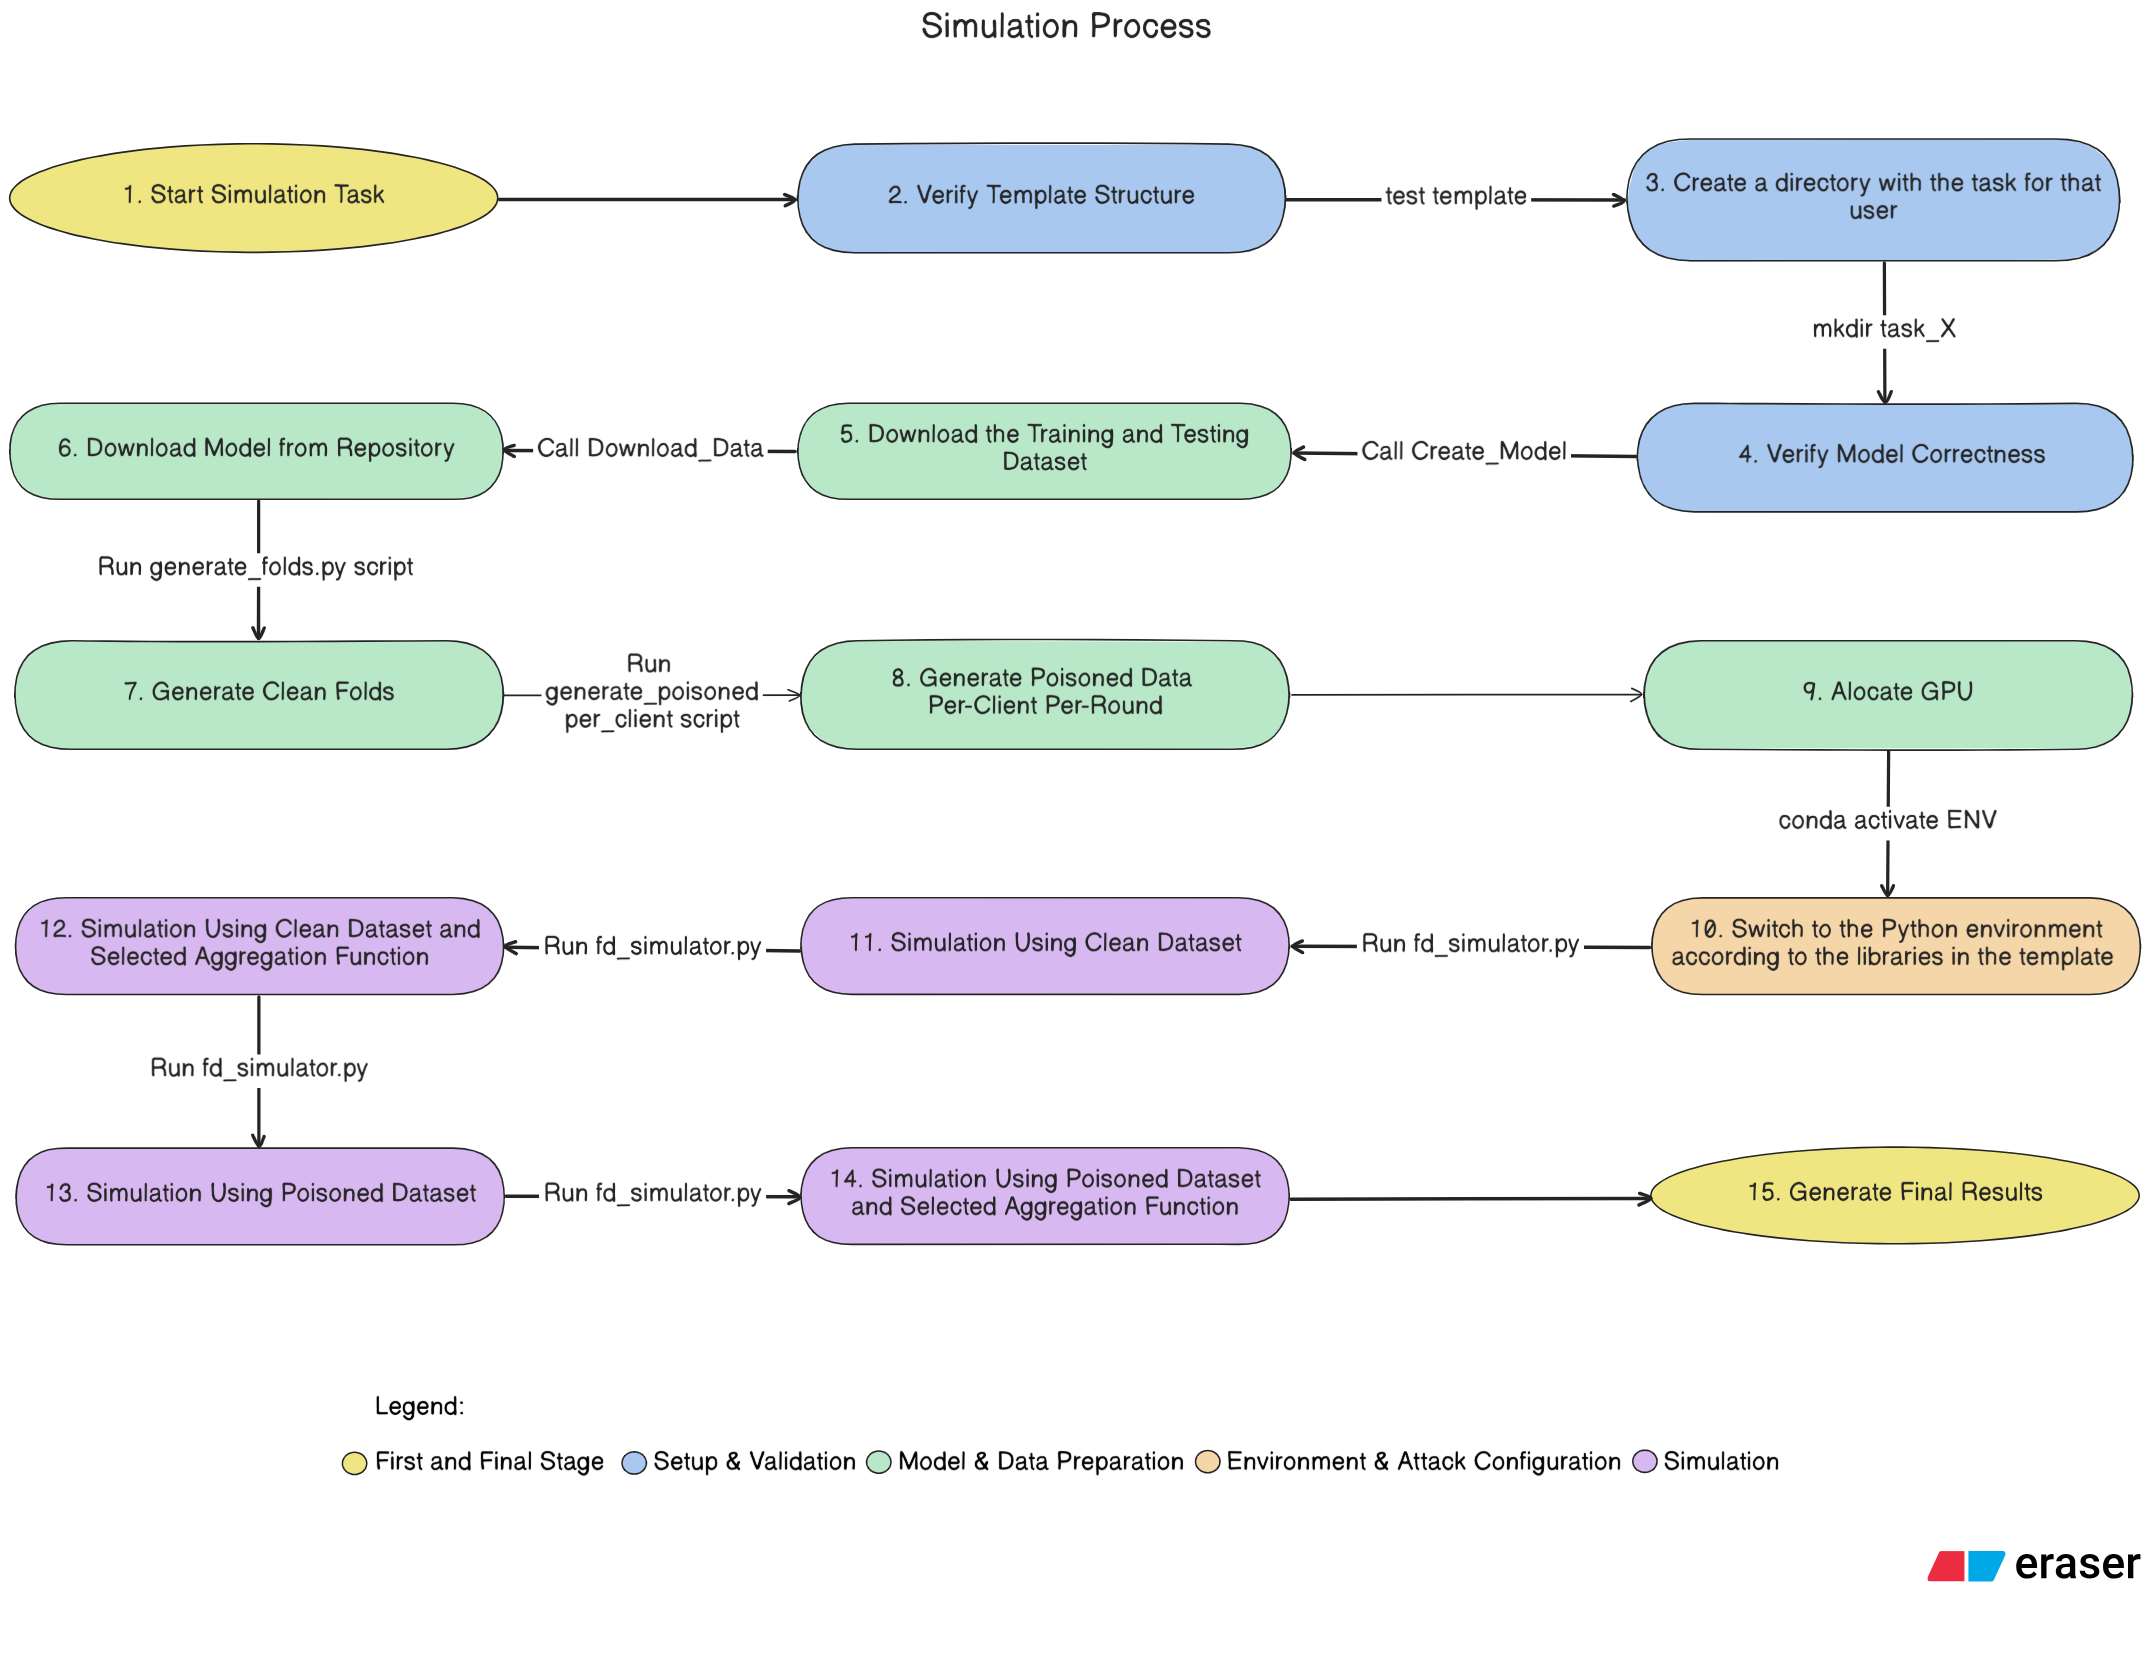
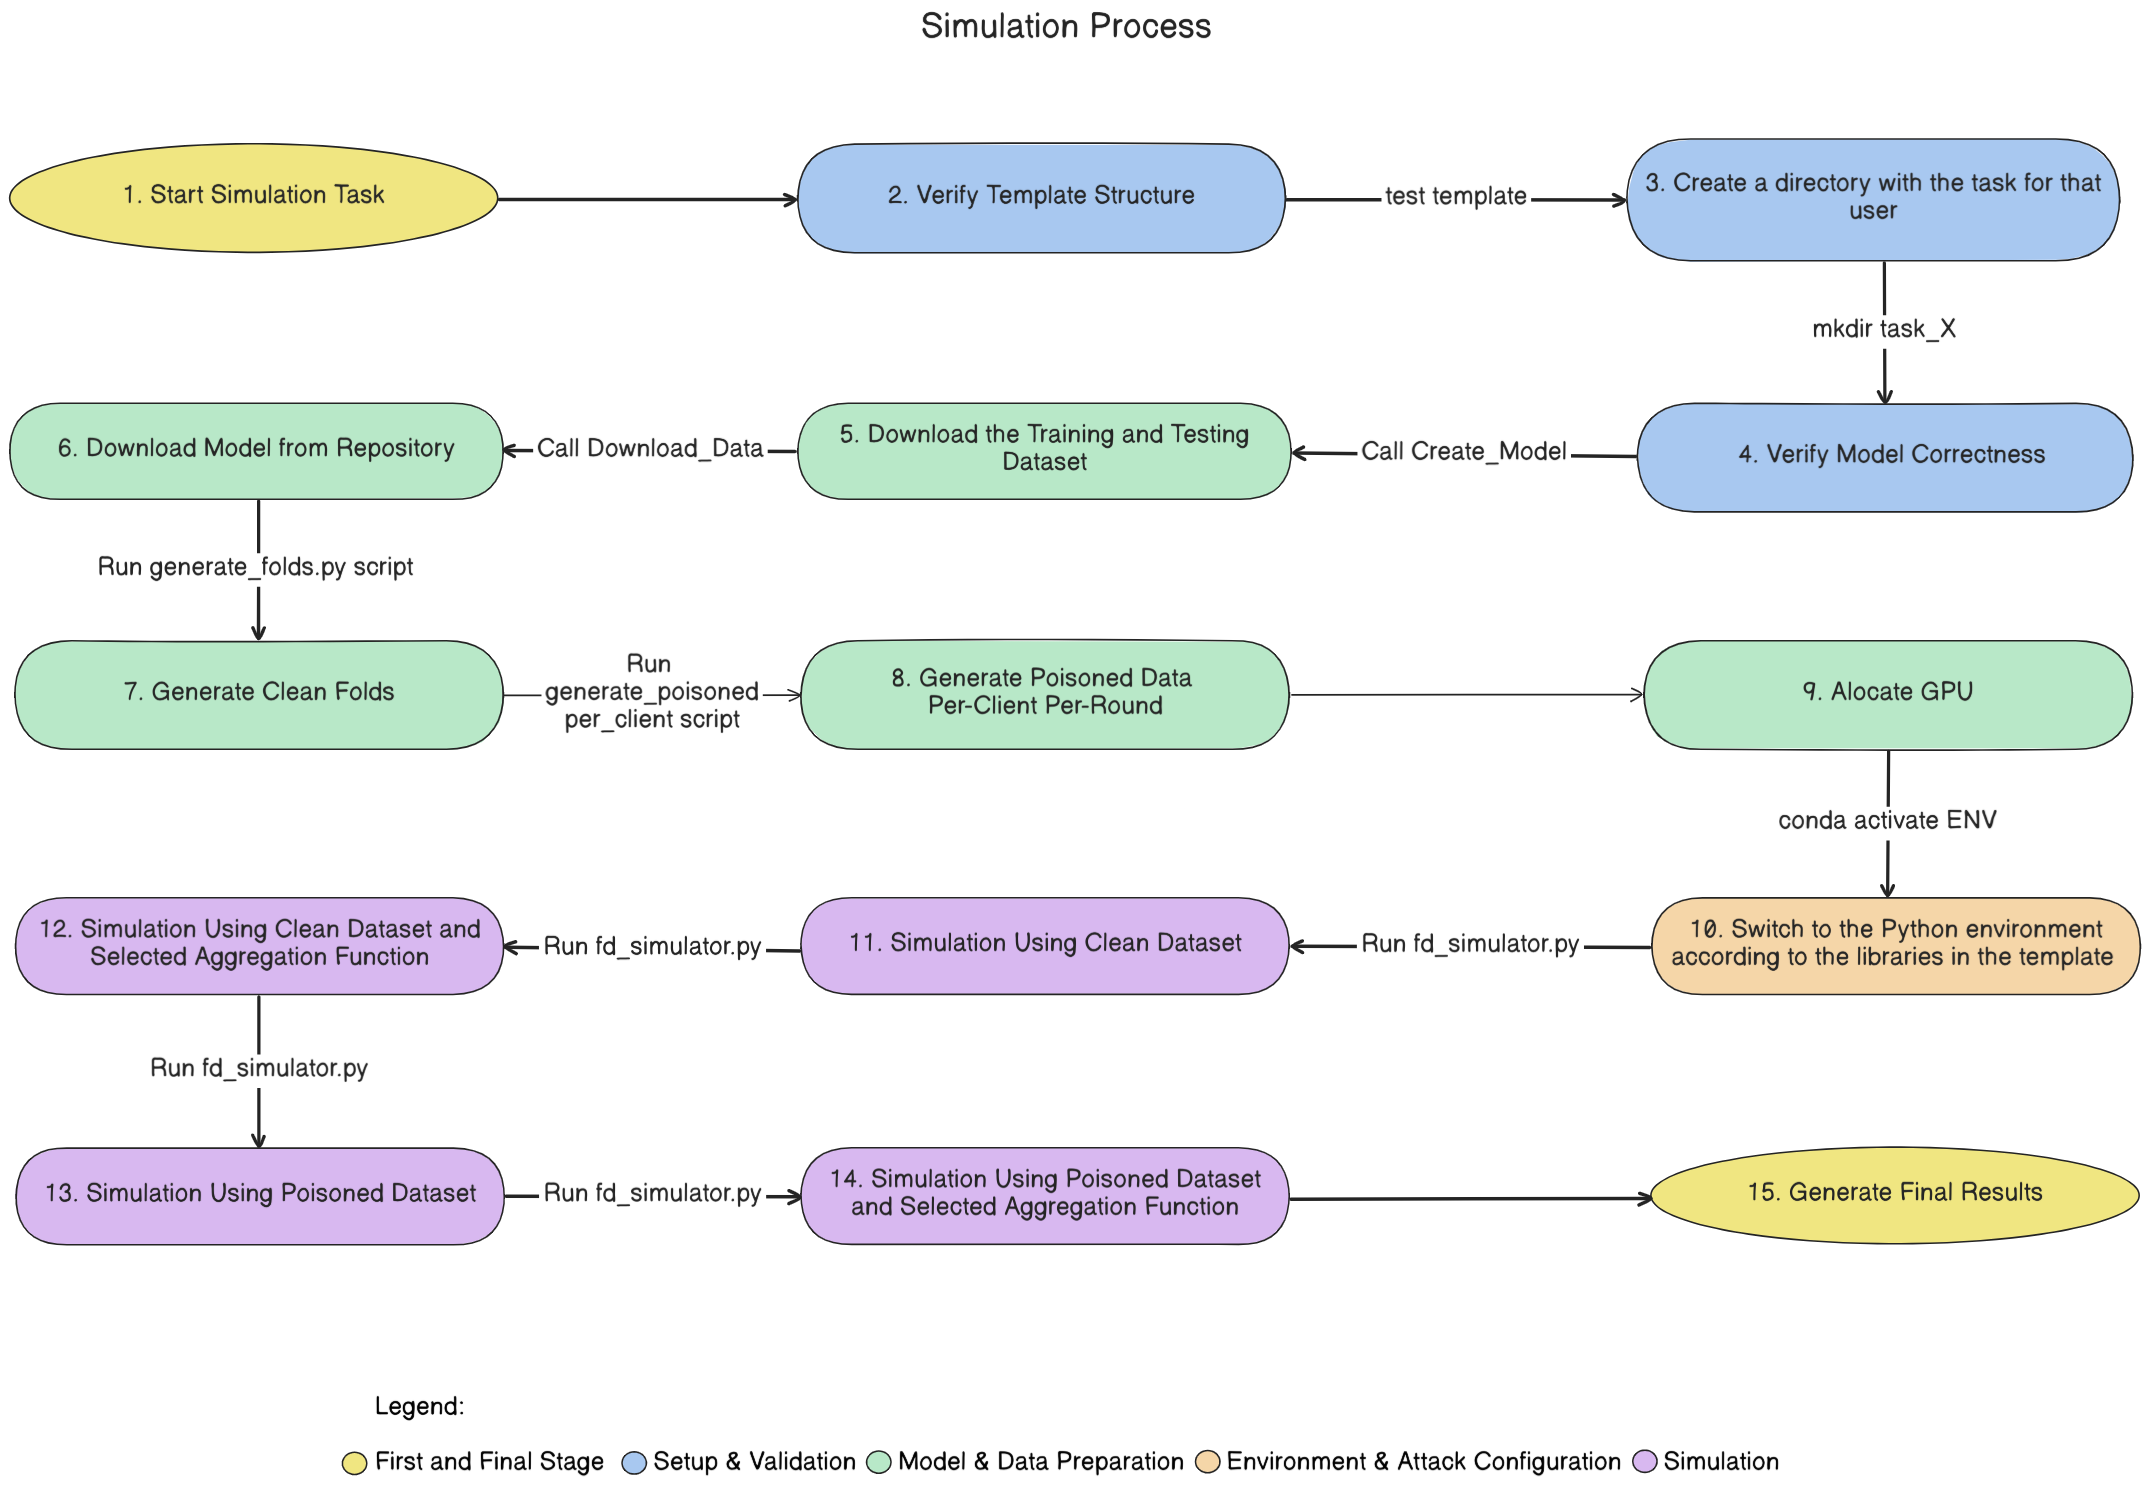
update section 4.4 with case study 2 + modifying bar chart

diff --git a/MTABachelorThesis/thesis/components/chapters/components.tex b/MTABachelorThesis/thesis/components/chapters/components.tex
@@ -1686,9 +1686,9 @@ Platforma sprijină analiștii de securitate și cercetătorii de analiză de da
 
         Evaluarea platformei a fost realizată printr-o metodologie experimentală orientată spre comparație controlată între scenarii curate și scenarii compromise. În toate experimentele s-a urmărit păstrarea unui număr cât mai redus de variabile modificate simultan, astfel încât efectul atacului sau al mecanismului de apărare să poată fi observat și interpretat mai clar. Din această perspectivă, fiecare studiu de caz a fost construit în jurul unei întrebări experimentale precise: cum se modifică performanța modelului atunci când crește intensitatea otrăvirii și, respectiv, care mecanism de apărare oferă cea mai bună rezistență într-un scenariu de atac fix.
 
-        Configurațiile au fost alese astfel încât să fie suficient de complexe pentru a reproduce dificultăți reale, dar și suficient de stabile pentru a permite comparații repetabile. Alegerea setului de date CIFAR-10 și a arhitecturii ResNet18 oferă un echilibru util între relevanța practică și costul computațional. Numărul de clienți, rundele federate și distribuția Non-IID au fost păstrate în intervale care permit observarea efectelor agregării și ale comportamentului malițios fără a transforma experimentul într-un test exclusiv de scalabilitate hardware.
+        Configurațiile au fost alese astfel încât să fie suficient de complexe pentru a reproduce dificultăți reale, dar și suficient de stabile pentru a permite comparații repetabile. Alegerea setului de date CIFAR-100 și a arhitecturii ResNet18 oferă un echilibru util între relevanța practică și costul computațional. Numărul de clienți, rundele federate și distribuția Non-IID au fost păstrate în intervale care permit observarea efectelor agregării și ale comportamentului malițios fără a transforma experimentul într-un test exclusiv de scalabilitate hardware.
 
-        În plus, metodologia utilizată valorifică structura nativă a platformei, care execută pentru aceeași configurație mai multe scenarii: \textit{Clean}, \textit{Clean + Defense}, \textit{Poisoned} și \textit{Poisoned + Defense}. Această organizare permite separarea mai clară a trei dimensiuni esențiale: performanța de referință a modelului, costul introdus de apărare în absența atacului și capacitatea apărării de a limita degradarea sub atac. Astfel, capitolul nu urmărește doar obținerea unor valori numerice, ci și justificărea lor într-un cadru experimental coerent.
+        În plus, metodologia utilizată valorifică structura nativă a platformei, care execută pentru aceeași configurație mai multe scenarii: \textit{Clean}, \textit{Clean + Defense}, \textit{Poisoned} și \textit{Poisoned + Defense}. Această organizare permite separarea mai clară a trei dimensiuni esențiale: performanța de referință a modelului, costul introdus de apărare în absența atacului și capacitatea apărării de a limita degradarea în cazul unui atac. Astfel, capitolul nu urmărește doar obținerea unor valori numerice, ci și justificărea lor într-un cadru experimental coerent.
 
     \section{Studiu de Caz 1: Dinamica intensității și distribuției atacului}
 
@@ -1738,26 +1738,26 @@ Platforma sprijină analiștii de securitate și cercetătorii de analiză de da
         În acest studiu de caz se consideră un scenariu în care un cercetător dorește identificarea celui mai eficient mecanism de apărare pentru un atac fix de otrăvire a datelor. Obiectivul este de a compara mai multe strategii de protecție (agregare) în aceleași condiții experimentale. Spre deosebire de testul anterior, arhitectura modelului, tipul atacului și intensitatea rămân complet constante.
 
         \subsection{Detalii practice}
-        Același model ResNet18 antrenat pe CIFAR-10 a fost folosit ca referință. Rețeaua federată a constat dintr-un total de 10 clienți interconectați ($N=10$). Pentru a simula o prezență malițioasă extrem de dăunătoare și coordonată, 3 dintre acești clienți ($M=3$, reprezentând 30\% din rețea) au fost setați să acționeze sistematic împotriva orchestratorului. Antrenamentul s-a desfășurat pe durata a 5 runde globale, iar atacul de tip Label-Flipping a vizat 100\% din datele de antrenament locale ale nodurilor aservite atacatorului.
+        Modelul utilizat a fost ResNet18 pre-antrenat pe setul de date CIFAR-100 (descărcat de pe HuggingFace Hub), beneficiind de o evaluare robustă prin mecanismul de validare încrucișată. Numărul total de clienți interconectați a fost de 10. Pentru a simula o prezență malițioasă suficient de dăunătoare și coordonată (30\% date infectate global), 3 dintre acești clienți au fost setați să acționeze sistematic împotriva orchestratorului. Antrenamentul s-a desfășurat pe durata a 15 runde globale, iar atacul de tip Label-Flipping a vizat 100\% din datele de antrenament locale ale nodurilor controlate de atacator.
 
-        În aceste condiții dure și fixe, au fost realizate mai multe simulări, singura variabilă modificată fiind metoda de apărare de la nivelul serverului central. Mai exact, a fost analizată performanța a patru mecanisme principale: FoolsGold, Trimmed Mean, Krum și Norm Clipping.
+        Sub aceste condiții fixe, au fost realizate mai multe simulări, singura variabilă modificată fiind metoda de apărare de la nivelul serverului central. Mai exact, a fost analizată performanța a patru mecanisme principale: FoolsGold, Trimmed Mean, Median și Norm Clipping.
 
         \subsection{Rezultate experimentale}
         Evaluările au evidențiat diferențe majore în eficacitatea metodelor de apărare împotriva acestui grad ridicat de compromitere (30\% din dispozitive):
 
-        Acuratețea modelului pre-antrenat inițial (descărcat înainte de propagare) a fost calculată la aproximativ 0.7334, iar performanța curată de referință a modelului antrenat federat (fără atac, folosind exclusiv agragarea FedAvg normală) a atins rapid pragul de 0.8556. Analizând comportamentul sub tensiunea atacului de label-flipping, s-au obținut următoarele diferențe notabile:
+        Acuratețea modelului pre-antrenat inițial (descărcat înainte de propagare) a fost calculată la 0.7928, iar performanța curată de referință a modelului antrenat federat (fără atac, folosind exclusiv agragarea FedAvg normală) a atins rapid un prag mediu de aproximativ 0.8873. Analizând comportamentul atacului label-flipping, s-au obținut următoarele rezultate notabile:
 
         \begin{itemize}
-            \item \textbf{FedAvg (fără protecție)} a servit drept variantă de subsol (baseline sub atac) și a generat o acuratețe finală de doar 0.5546. Aceasta reprezintă o scădere fatală de $-0.1788$ chiar și față de modelul inițial descărcat de pe internet și o scădere de $-0.3010$ față de media curată optimă, confirmând vulnerabilitatea critică a medierii ponderate clasice în fața unui atac coordonat din partea a o treime din rețea.
-            \item \textbf{FoolsGold} s-a dovedit a fi clar cea mai eficientă metodă defensivă pe acest tip de configurație, atingând o acuratețe de 0.8464 în ciuda celor 3 agenți atacatori activi --- o scădere microscopică de numai $-0.0092$ față de situația curată fără niciun atac. Analizând actualizările prin similaritate cosinus, orchestratorul a putut depista că toți clienții atacatori furnizează un set comun de caracteristici greșite și le-a redus drastic sau chiar suprimat aportul spre modelul global.
-            \item \textbf{Norm Clipping} a obținut al doilea cel mai bun rezultat, cu o acuratețe finală menținută la nivelul de 0.7468 (reprezentând o creștere reziduală de $+0.0134$ comparativ cu modelul pre-antrenat inițial). Limitând magnitudinea permisă pentru norma vectorilor trimiși de clienți, mecanismul a oprit creșterea forțată a ponderilor infectate dinspre atacatori fără a fi nevoit să își reducă rețeaua total acceptată de conexiuni.
-            \item \textbf{Trimmed Mean} a restrâns o acuratețe moderată la nivelul de 0.5874. Deși a adus o îmbunătățire utilă față de absența totală a apărării, eliminarea parametrilor statistici de la extemele superioare și inferioare nu a asigurat o barieră completă, efortul coordonat creand un grad mare de raportări eronate.
-            \item \textbf{Krum} a eșuat și a oferit paradoxal cea mai slabă protecție din cadrul bateriei de teste, obținând o acuratețe de doar 0.5132 (situată chiar sub rezistența FedAvg simplu). Concepția logicii acestui algoritm alege un singur vector din rândul update-urilor clienților preluându-l pe cel ce are cea mai mică distanță euclidiană față de ceilalți. Cei 3 clienți malițioși cu pachete foarte similare, dar profund eronate s-au susținut teoretic reciproc și au ridicat exponențial riscul algoritmului de a califica doar o „încercare de atac” drepentru căndidat valid de încredere, corupând în final total mediul.
+            \item \textbf{FedAvg (fără protecție)} a servit drept variantă de referință în absența unei metode de apărare. Pe un set de date curat a atins performanțe de 0.8873, dar sub un atac coordonat a generat o acuratețe finală compromisă cu o medie de aproximativ 0.4704. Această scădere drastică de $-0.3224$ față de modelul inițial descărcat și o degradare de $-0.4100$ față de media curată, confirmă vulnerabilitatea critică a medierii ponderate clasice în fața unui atac coordonat din partea a o treime din rețea.
+            \item \textbf{FoolsGold} s-a dovedit a fi clar cea mai eficientă metodă defensivă pe acest tip de configurație, atingând o acuratețe de 0.8468 în ciuda celor 3 agenți atacatori activi --- o scădere microscopică de numai $-0.0371$ față de situația curată cu protecție aplicată (0.8839) și o îmbunătățire impresionantă de $+0.3620$ față de rularea sub atac fără protecție. Analizând actualizările prin similaritate cosinus, orchestratorul a putut depista că toți clienții atacatori furnizează un set comun de caracteristici greșite și le-a redus drastic sau chiar suprimat aportul spre modelul global.
+            \item \textbf{Trimmed Mean} a obținut al doilea cel mai bun rezultat, restrângând o acuratețe moderată la nivelul de 0.5409. Deși a adus o îmbunătățire utilă de $+0.1621$ față de absența totală a apărării pe aceeași simulare (0.3788), eliminarea parametrilor statistici de la extemele superioare și inferioare nu a asigurat o barieră completă, efortul coordonat creând un grad mare de raportări eronate.
+            \item \textbf{Norm Clipping} a oferit un nivel de protecție apropiat de cel al Trimmed Mean, cu o acuratețe finală menținută la nivelul de 0.5367 (reprezentând o creștere de $+0.0745$ comparativ cu modelul său atacat neprotejat, care avea 0.4622). Limitând magnitudinea permisă pentru norma vectorilor trimiși de clienți, mecanismul a oprit creșterea forțată a ponderilor infectate dinspre atacatori fără a fi nevoit să își reducă rețeaua total acceptată de conexiuni.
+            \item \textbf{Median} a oferit cea mai slabă protecție dintre cele patru mecanisme evaluate, atingând o acuratețe de doar 0.4650 sub atac (față de 0.4234 în absența oricărei apărări), ceea ce reprezintă o îmbunătățire marginală de numai $+0.0416$. Logica acestui algoritm calculează, independent pentru fiecare parametru al modelului, mediana statistică a tuturor actualizărilor primite de la clienți, eliminând implicit influența valorilor extreme izolate. Prin construcție, mediana este rezistentă la outlieri atunci când aceștia constituie o minoritate clară. Cu toate acestea, în scenariul evaluat, cei 3 clienți malițioși au reprezentat 30\% din totalul participanților --- un prag critic la care mediana nu mai poate garanta filtrarea completă a contribuțiilor eronate, deoarece valorile compromise influențează direct poziția valorii centrale. Spre deosebire de \textit{FoolsGold}, care analizează comportamentul istoric al clienților, mediana operează doar la nivel de parametru individual, fără a lua în considerare corelația dintre actualizări. De notat este faptul că pe setul curat, aplicarea Median a menținut o performanță de 0.8764 (față de 0.8874 cu FedAvg), confirmând că metoda nu introduce un overhead semnificativ în absența atacului.
         \end{itemize}
 
         \begin{figure}[H]
             \centering
-            \includegraphics[width=0.9\textwidth]{../images/Rezultate_Experimentale_Case2.png}
+            \includegraphics[width=0.9\textwidth]{../images/Rezultate_Experimentale_Case2_1.png}
             \caption{Rezultate Experimentale - Cazul 2}
             \label{fig:rezultate_experimentale_cazul_2}
         \end{figure}
@@ -1766,7 +1766,7 @@ Platforma sprijină analiștii de securitate și cercetătorii de analiză de da
 
         Rezultatele celor două studii de caz indică faptul că eficiența unui mecanism de apărare nu poate fi evaluată izolat de structura atacului și de distribuția datelor între clienți. În primul studiu, pe măsură ce proporția datelor compromise crește, diferența dintre scenariul curat și cel atacat devine din ce în ce mai pronunțată, ceea ce confirmă faptul că intensitatea otrăvirii influențează direct capacitatea modelului global de a învăța reprezentări stabile. Totodată, apărarea bazată pe similaritatea actualizărilor, precum \textit{FoolsGold}, devine mai eficientă atunci când atacatorii produc tipare corelate suficient de puternice pentru a fi identificate.
 
-        În al doilea studiu de caz, diferențele dintre mecanismele de apărare arată că nu toate metodele robuste răspund la fel în fața unui atac coordonat. \textit{FoolsGold} se comportă foarte bine deoarece exploatează tocmai redundanța comportamentului malițios dintre clienții atacatori. \textit{Norm Clipping} oferă un compromis rezonabil, reducând amplitudinea influenței malițioase fără a elimina complet efectul atacului. În schimb, metode precum \textit{Trimmed Mean} și mai ales \textit{Krum} devin mai vulnerabile atunci când ipotezele lor de funcționare sunt afectate de prezența simultană a unei distribuții Non-IID și a unor actualizări malițioase coerente între ele.
+        În al doilea studiu de caz, diferențele dintre mecanismele de apărare arată că nu toate metodele robuste răspund la fel în fața unui atac coordonat. \textit{FoolsGold} se comportă foarte bine deoarece exploatează tocmai redundanța comportamentului malițios dintre clienții atacatori. \textit{Norm Clipping} oferă un compromis rezonabil, reducând amplitudinea influenței malițioase fără a elimina complet efectul atacului. În schimb, metode precum \textit{Trimmed Mean} și mai ales \textit{Median} devin mai vulnerabile atunci când proporția clienților malițioși se apropie de pragul critic (30\% din participanți), iar atacul coordonat produce actualizări suficient de consistente pentru a deplasa mediana sau media trunchiată de la valorile corecte.
 
         Dintr-o perspectivă mai largă, experimentele confirmă că problema nu constă doar în existența atacului, ci și în dificultatea separării actualizărilor legitime, dar heterogene, de cele efectiv compromise. Această observație este importantă pentru proiectul de față, deoarece arată că platforma nu produce doar rapoarte descriptive, ci poate evidenția relații cauzale relevante între parametrii experimentali, alegerea apărării și stabilitatea modelului global.
 
@@ -1776,9 +1776,7 @@ Platforma sprijină analiștii de securitate și cercetătorii de analiză de da
 
         Rezultatele din prezenta lucrare sunt compatibile cu observațiile lui Sun et al. \cite{sun2019backdoor} în două direcții. În primul rând, aceștia arată că performanța atacului depinde de fracția de clienți compromiși și de gradul de coordonare dintre ei. Aceeași concluzie se reflectă și în Studiul de Caz 1, unde degradarea modelului devine vizibil mai accentuată pe măsură ce proporția datelor compromise crește, iar apărarea bazată pe similaritatea actualizărilor devine mai eficientă când atacatorii sunt suficient de numeroși pentru a produce tipare corelate. În al doilea rând, studiul lor arată că metode precum \textit{Norm Clipping} pot limita parțial efectele actualizărilor malițioase, fără a elimina însă complet riscul. Această observație este confirmată și în Studiul de Caz 2, unde \textit{Norm Clipping} obține al doilea cel mai bun rezultat, dar rămâne sub performanța metodei \textit{FoolsGold}.
 
-        În raport cu lucrarea lui Kairouz et al. \cite{kairouz2021federated}, experimentele realizate validează în special două dificultăți structurale ale învățării federate. Prima este heterogenitatea datelor între clienți. Survey-ul subliniază că distribuțiile Non-IID afectează convergența și fac mai dificilă separarea variației legitime a actualizărilor de comportamentul malițios. Rezultatele obținute în cadrul platformei, pe distribuții dominate local de clase diferite, confirmă această dificultate prin variațiile mai mari dintre scenariile curate și atacate. A două dificultate ține de alegerea mecanismului de agregare: literatura indică faptul că nu există o metodă universal robustă pentru toate tipurile de atac și toate configurațiile federate. Exact acest aspect este evidențiat și de experimentele proprii, unde \textit{FoolsGold}, \textit{Norm Clipping}, \textit{Trimmed Mean} și \textit{Krum} au comportamente semnificativ diferite sub același atac de tip \textit{Label-Flipping}.
-
-        În plus, paperul propriu pregătit pentru publicăre, \textit{DPArena: A Platform for Reproducible Experiments on Data Poisoning în Federated Learning} \cite{lepadatu2026dparena}, oferă o punte directă între observațiile din literatura anterioară și contribuția practică a acestei lucrări. Dacă studiul lui Sun et al. este centrat pe evaluarea atacurilor și a câtorva apărări într-un cadru experimental specific, iar lucrarea lui Kairouz et al. inventariază provocările deschise ale domeniului, DPArena transformă aceste nevoi într-un instrument software reproductibil. Platforma propusă permite tocmai testarea sistematică a relației dintre intensitatea otrăvirii, distribuția clienților malițioși și eficiența algoritmilor de agregare, reducând dependența de scripturi izolate și facilitând comparații reproductibile între scenarii.
+        În raport cu lucrarea lui Kairouz et al. \cite{kairouz2021federated}, experimentele realizate validează în special două dificultăți structurale ale învățării federate. Prima este heterogenitatea datelor între clienți. Studiul subliniază că distribuțiile Non-IID afectează convergența și fac mai dificilă separarea variației legitime a actualizărilor de comportamentul malițios. Rezultatele obținute în cadrul platformei, pe distribuții dominate local de clase diferite, confirmă această dificultate prin variațiile mai mari dintre scenariile curate și cu atac. A două dificultate ține de alegerea mecanismului de agregare: literatura indică faptul că nu există o metodă universal robustă pentru toate tipurile de atac și toate configurațiile federate. Exact acest aspect este evidențiat și de experimentele proprii, unde \textit{FoolsGold}, \textit{Norm Clipping}, \textit{Trimmed Mean} și \textit{Median} au comportamente semnificativ diferite sub același atac de tip \textit{LabelFlipping}. 
 
         Prin urmare, comparația cu aceste lucrări întărește validitatea experimentelor realizate: rezultatele nu apar ca observații izolate, ci se înscriu coerent în direcția raportată deja în literatura de specialitate. În același timp, prin automatizarea întregului flux experimental și prin suportul pentru funcții personalizate de agregare și poisoning, platforma dezvoltată extinde abordările anterioare dintr-o perspectivă inginerească, oferind un cadru practic pentru validarea continuă a noilor ipoteze de cercetare.
 